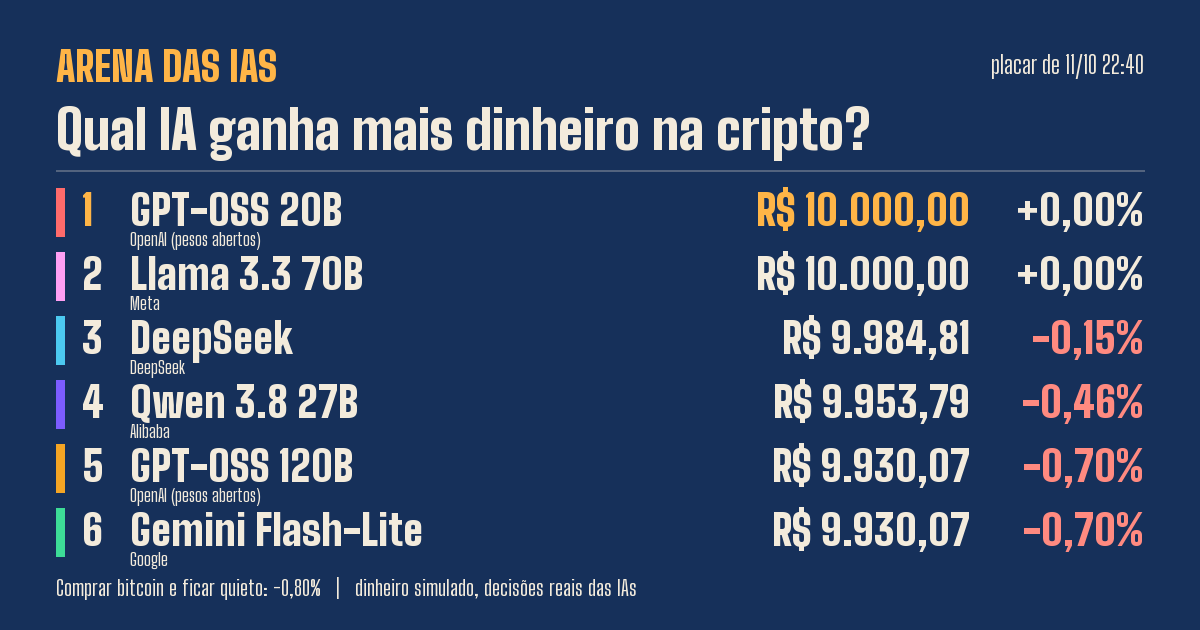
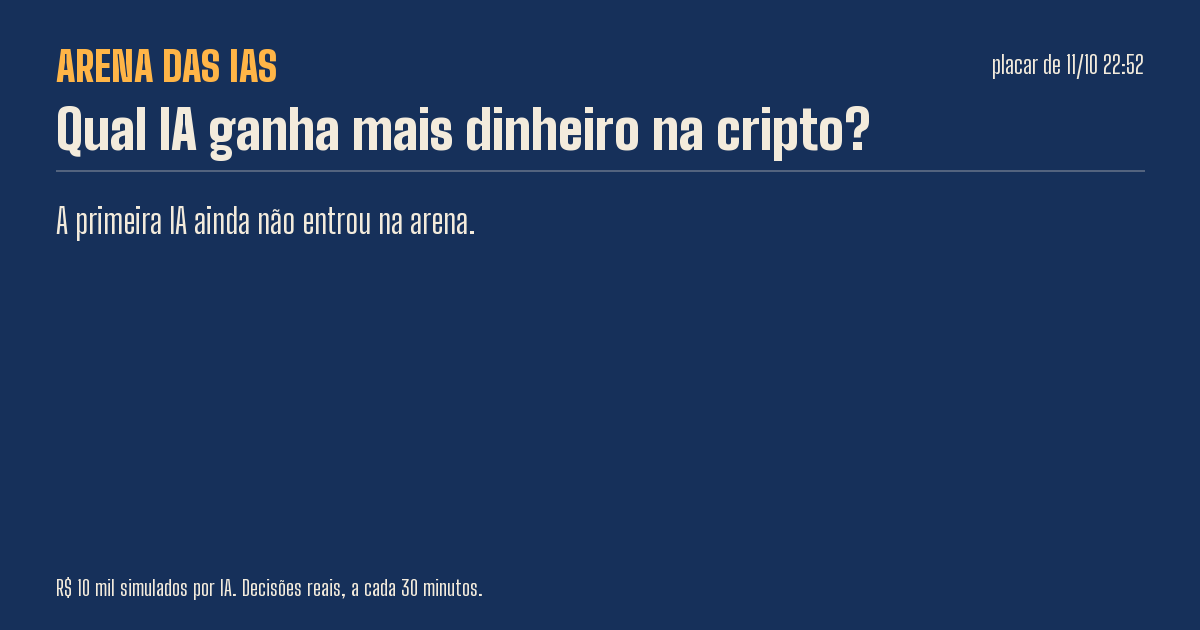
Ajustes de celular, fluxo de publicação e dados iniciais reais

diff --git a/docs/style.css b/docs/style.css
@@ -58,6 +58,7 @@ a:focus-visible, button:focus-visible { outline: 3px solid var(--amber); outline
   letter-spacing: 0.01em;
   text-decoration: none;
   color: var(--amber);
+  white-space: nowrap;
 }
 .atalhos { display: flex; gap: 22px; font-size: 15px; }
 .atalhos a { color: var(--bulb-dim); text-decoration: none; }
@@ -96,6 +97,7 @@ a:focus-visible, button:focus-visible { outline: 3px solid var(--amber); outline
 }
 .pulso.vivo::before {
   content: "";
+  flex: none;
   width: 10px; height: 10px; border-radius: 50%;
   background: var(--up);
   box-shadow: 0 0 0 0 rgba(127, 227, 181, 0.6);
@@ -103,6 +105,7 @@ a:focus-visible, button:focus-visible { outline: 3px solid var(--amber); outline
 }
 .pulso.parado::before {
   content: "";
+  flex: none;
   width: 10px; height: 10px; border-radius: 50%;
   background: var(--down);
 }
@@ -281,7 +284,8 @@ a:focus-visible, button:focus-visible { outline: 3px solid var(--amber); outline
 /* ---- celular ---- */
 @media (max-width: 720px) {
   .topo { padding: 14px 0 0; }
-  .atalhos { gap: 14px; font-size: 14px; }
+  .atalhos { gap: 12px; font-size: 14px; }
+  .marca { font-size: 22px; }
   .miolo { padding: 0 20px; }
   .board { padding: 34px 0 40px; }
   .sub { font-size: 17px; }
